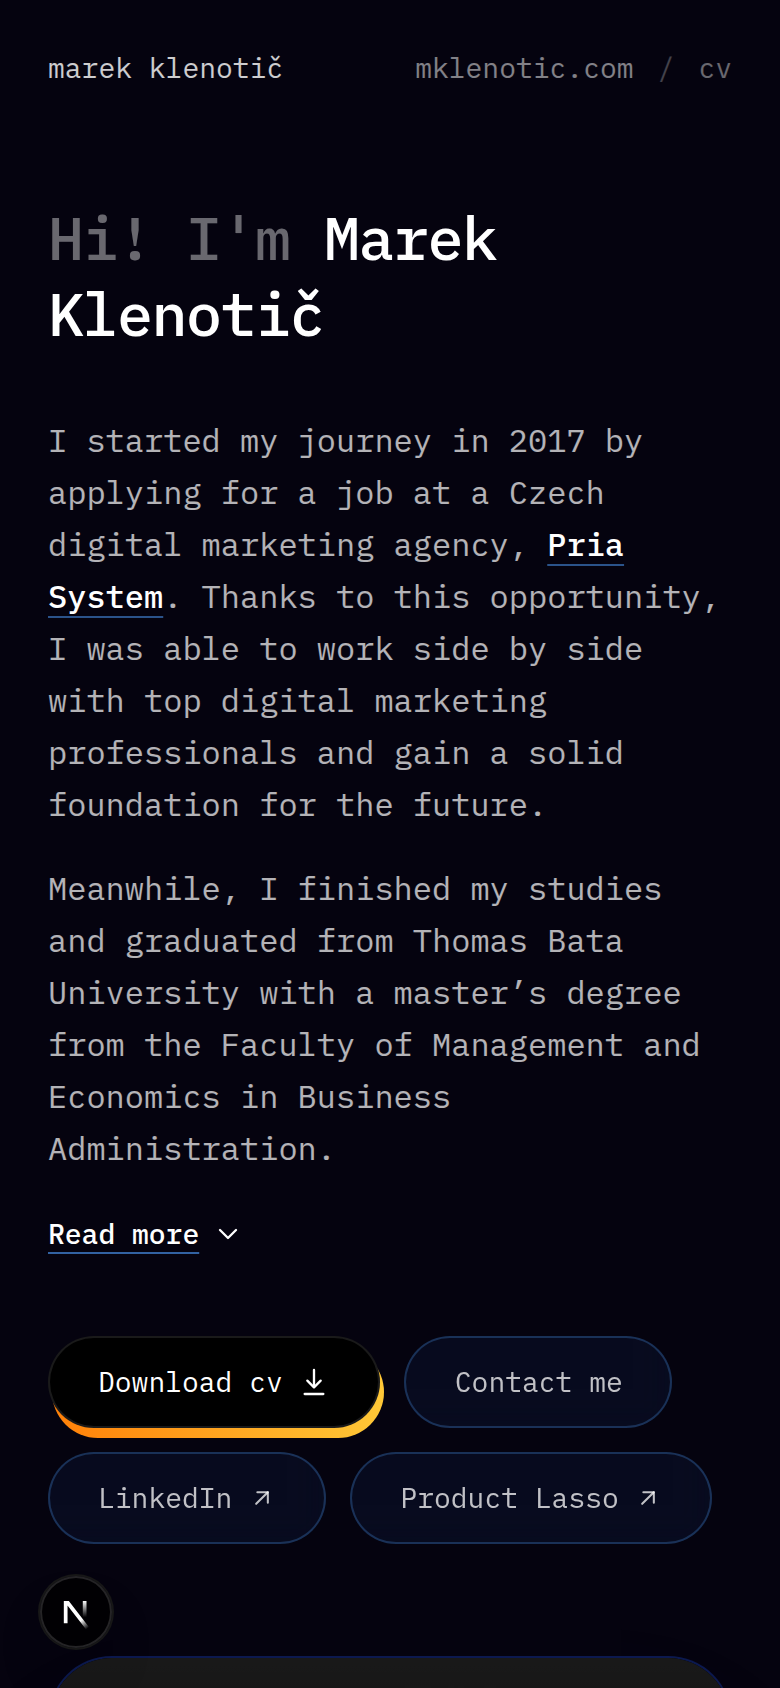
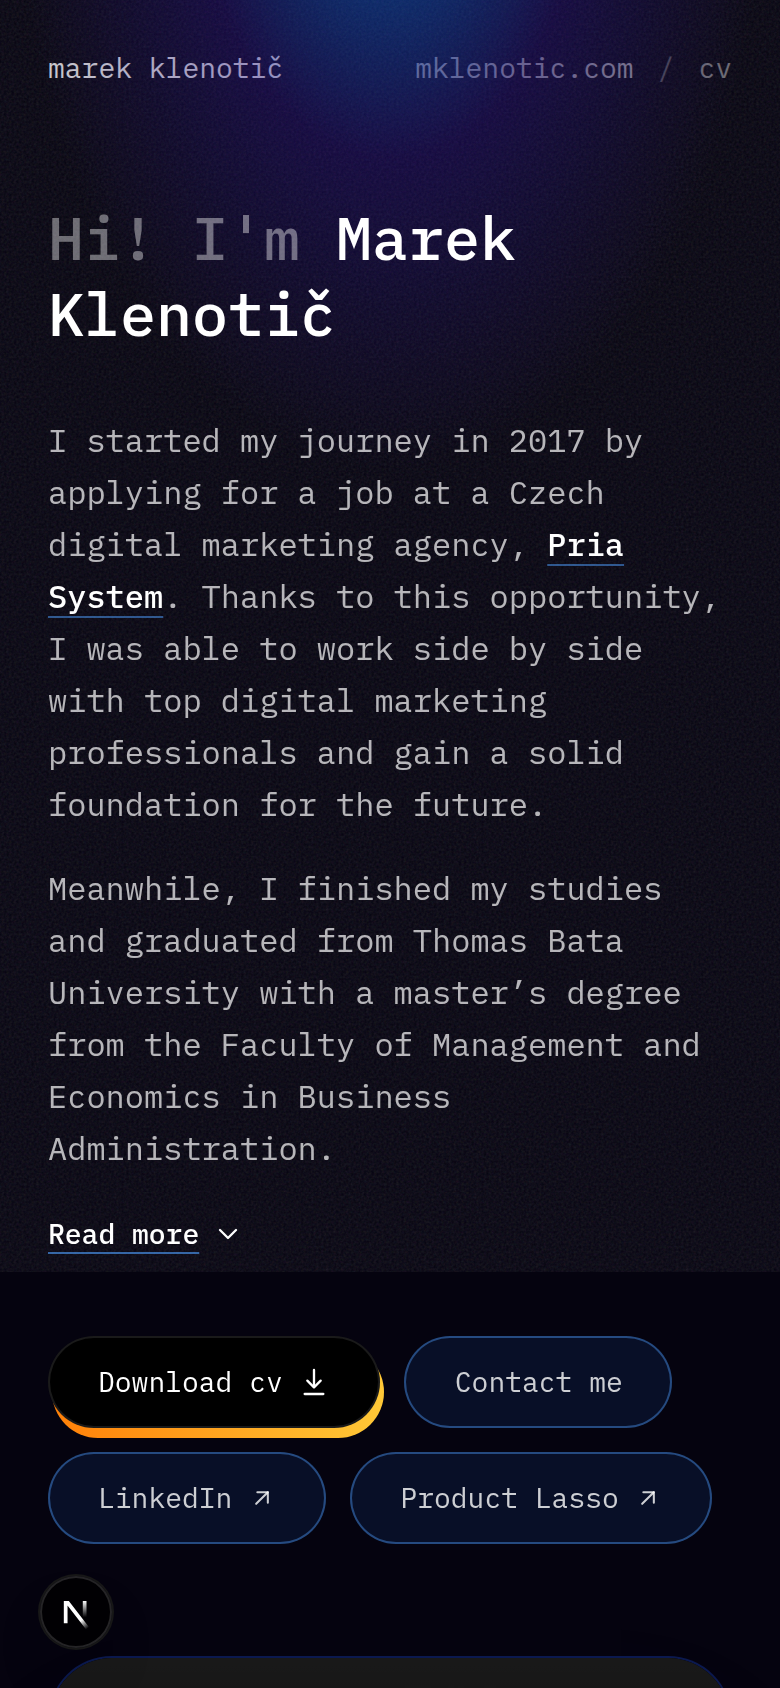
style(cv): push hero blue field, lock mono headline, brighten skill pills
- Add a hero-local electric blue radial + grain so above-the-fold matches
  homepage intensity (not near-black); strengthen the global top glow too
- Set the H1 explicitly in the mono stack (drop tracking departure)
- Raise skill-pill and ghost-CTA blue border/fill so the brand-blue accent is
  clearly visible; keep them consistent
- Add desktop-skills.png and refresh docs/cv-review screenshots

diff --git a/app/about/cv-klenoticmarek/CvContent.tsx b/app/about/cv-klenoticmarek/CvContent.tsx
@@ -298,7 +298,7 @@ function CtaButton({ label, href, variant, download, external, icon }: Cta) {
   return (
     <a
       {...anchorProps}
-      className={`inline-flex items-center gap-2 rounded-full border border-blue-400/25 bg-blue-500/[0.06] px-6 py-3 font-mono text-sm text-white/75 backdrop-blur-sm transition-colors duration-200 hover:border-blue-300/50 hover:bg-blue-500/10 hover:text-white ${FOCUS_RING}`}
+      className={`inline-flex items-center gap-2 rounded-full border border-blue-400/40 bg-blue-500/[0.10] px-6 py-3 font-mono text-sm text-white/80 backdrop-blur-sm transition-colors duration-200 hover:border-blue-300/60 hover:bg-blue-500/[0.18] hover:text-white ${FOCUS_RING}`}
     >
       <span>{label}</span>
       {icon === "external" ? <ExternalIcon /> : null}
@@ -415,7 +415,7 @@ export default function CvContent() {
         className="pointer-events-none fixed inset-0 -z-20"
         style={{
           background:
-            "radial-gradient(100% 60% at 50% -6%, rgba(0,130,255,0.38) 0%, rgba(17,0,88,0.18) 34%, transparent 66%), linear-gradient(to bottom, #0a0a30 0%, #070522 26%, #05030f 58%, #04020a 100%)",
+            "radial-gradient(120% 70% at 50% -8%, rgba(0,130,255,0.5) 0%, rgba(20,4,110,0.24) 32%, transparent 64%), linear-gradient(to bottom, #0b0e40 0%, #080628 24%, #05030f 56%, #04020a 100%)",
         }}
       />
       {/* Fine grain for texture/depth. */}
@@ -447,10 +447,29 @@ export default function CvContent() {
 
       {/* Hero */}
       <motion.section
-        className="mx-auto max-w-[1080px] px-6 pt-8 pb-6 md:pt-14"
+        className="relative isolate mx-auto max-w-[1080px] px-6 pt-8 pb-6 md:pt-14"
         {...revealProps}
       >
-        <h1 className="max-w-3xl text-3xl leading-tight font-medium tracking-tight break-words md:text-5xl">
+        {/* Hero-local electric blue field — pushes the above-the-fold canvas to
+            homepage intensity rather than near-black. */}
+        <div
+          aria-hidden
+          className="pointer-events-none absolute inset-x-0 -top-48 -z-10 h-[760px]"
+          style={{
+            background:
+              "radial-gradient(68% 60% at 50% 4%, rgba(0,130,255,0.55) 0%, rgba(44,18,155,0.32) 38%, transparent 72%)",
+          }}
+        />
+        <div
+          aria-hidden
+          className="pointer-events-none absolute inset-x-0 -top-48 -z-10 h-[760px] opacity-[0.12] mix-blend-overlay"
+          style={{
+            backgroundImage: GRAIN_SVG,
+            backgroundSize: "180px 180px",
+          }}
+        />
+
+        <h1 className="max-w-3xl font-mono text-3xl leading-tight font-medium break-words md:text-5xl">
           <span className="text-white/40">Hi! I&apos;m </span>
           <span className="text-white">Marek Klenotič</span>
         </h1>
@@ -539,7 +558,7 @@ export default function CvContent() {
                 {group.items.map((item) => (
                   <span
                     key={item}
-                    className="rounded-full border border-blue-400/25 bg-blue-500/[0.06] px-3 py-1 text-sm text-white/80 transition-colors hover:border-blue-300/50 hover:bg-blue-500/10 hover:text-white"
+                    className="rounded-full border border-blue-400/40 bg-blue-500/[0.10] px-3 py-1 text-sm text-white/85 transition-colors hover:border-blue-300/60 hover:bg-blue-500/[0.18] hover:text-white"
                   >
                     {item}
                   </span>
